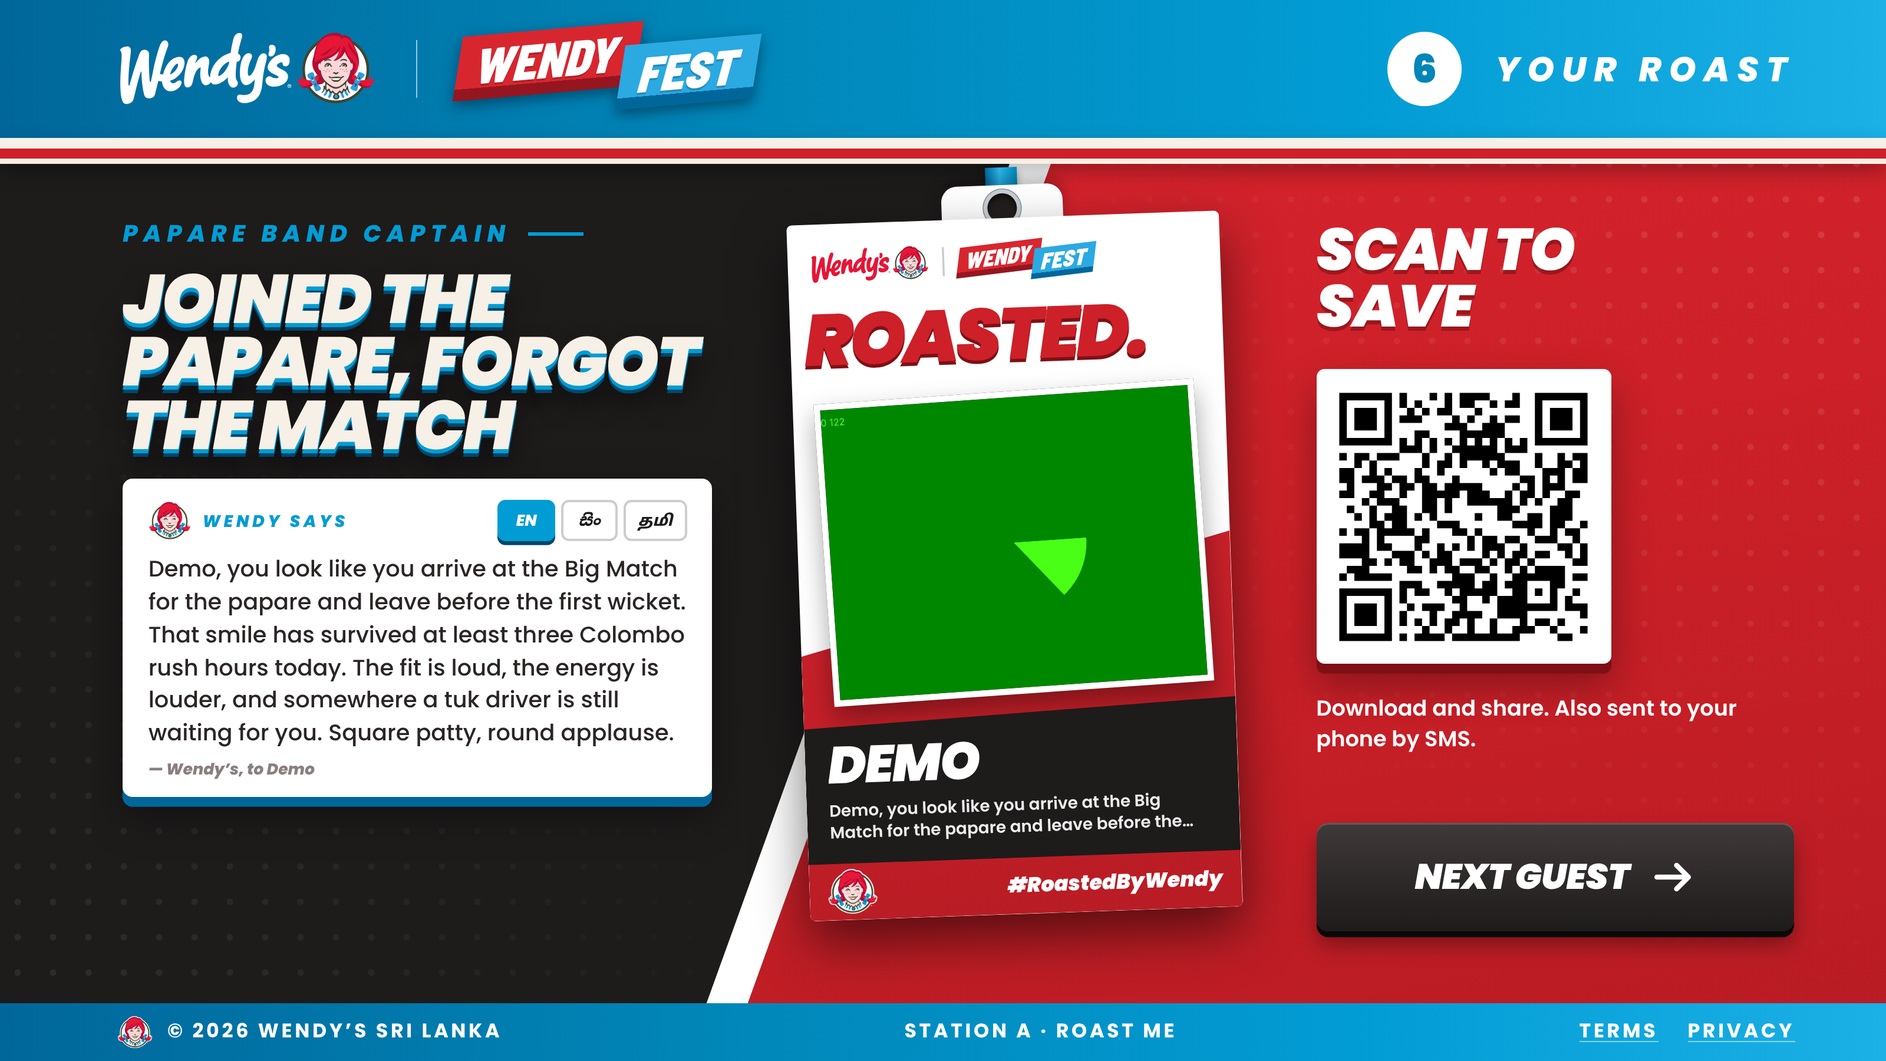
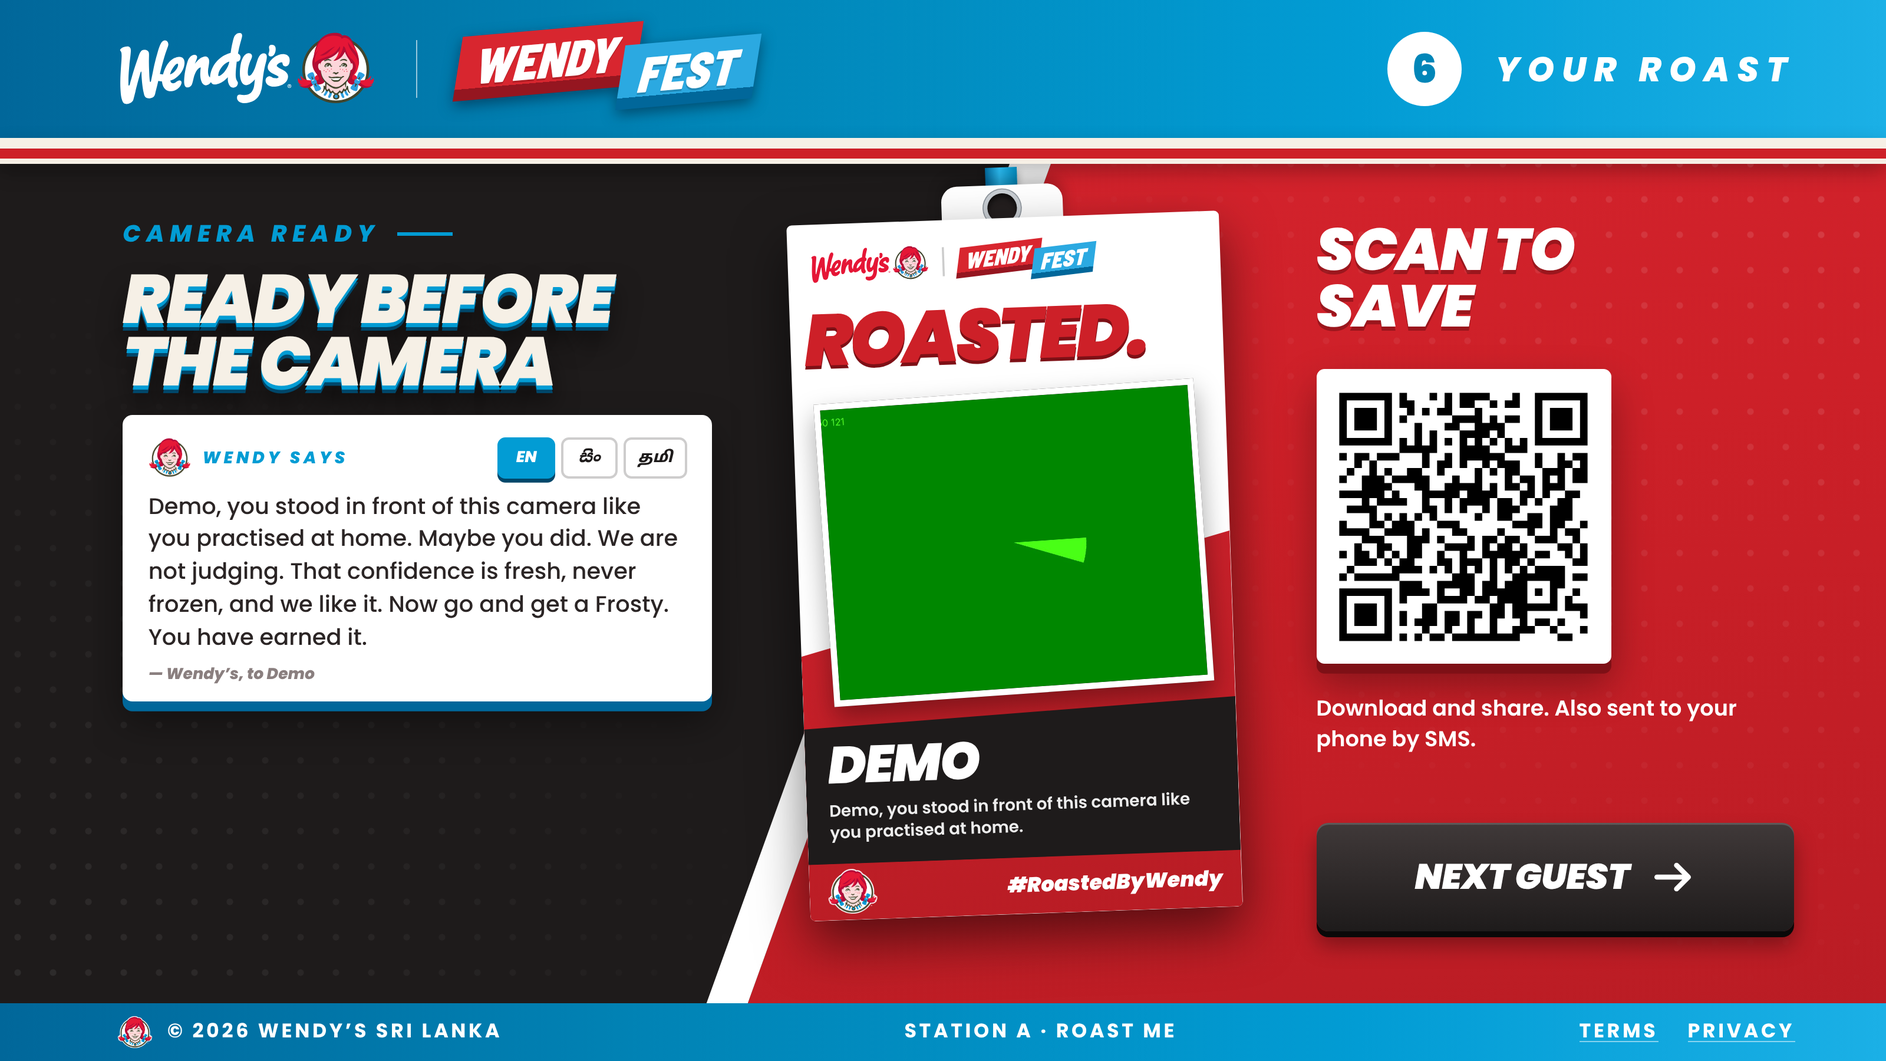
Roast Me wording: roasts name one or two visible things (cap, glasses, shirt colour) and tease them kindly in simple language; no cricket, bus-route or place in-jokes; offline lines rewritten to match
Claude-Session: https://claude.ai/code/session_015VvgGcy4E4iC8yPYa1MD8t

diff --git a/server/roast.js b/server/roast.js
@@ -4,25 +4,44 @@ import Anthropic from "@anthropic-ai/sdk";
 import { config } from "./config.js";
 
 const SYSTEM = `You are the voice of Wendy's Sri Lanka at the "Wendy Fest" launch event, running the "Roast Me" booth.
-A guest has consented to be photographed and roasted. Write them a roast they will want to screenshot and share.
+A guest has consented to be photographed and roasted. Write a short, friendly roast about what they are wearing or doing in the photo. They will read it on a big screen in front of friends, family and maybe their boss, so it must be easy to understand and safe to laugh at.
 
-VOICE (from the Wendy's brand playbook): dry, confident, quick, playful. Short punchy sentences. Never cruel, never crude.
-Think "Serving the Sass": the roast is a compliment wearing a smirk. End on a line that makes them feel like the main character.
+VOICE: warm, cheeky, simple. A compliment with a wink. Never cruel, never crude, never clever for its own sake.
+Write so a 12-year-old gets every line on first read: short sentences, everyday words, no idioms or references that need explaining.
 
-WHAT TO ROAST (only what is genuinely visible in the photo):
-- outfit, colours, costume, fit, accessories (glasses, caps, earrings, watches, bags), hairstyle, facial hair, tattoos, pose, expression, energy, props, what they are holding.
-- Mix in Sri Lankan life: Colombo traffic, the 138/145 bus, tuk-tuk fare negotiation, "five minutes away", Galle Face evenings, Kandy, papare bands, Big Match season, cricket commentary from the sofa, kottu at midnight, short eats, Amma's packed lunch, machan/aiyo energy, rain in Nugegoda, power cuts, the group chat deciding where to eat for 47 minutes.
-- Gently tie it back to Wendy's (fresh never frozen beef, square patties, Frosty, Baconator, Dave's Triple) in at most one line. Do not sound like an ad.
+HOW TO WRITE THE ROAST (follow this order):
+1. Look at the photo and pick ONE or TWO things that are clearly visible and that the guest chose: a cap or hat (its colour and type), glasses or sunglasses, the colour or print of a shirt, T-shirt, dress or saree, a jacket, jewellery, a watch, a bag, a hairstyle, the pose, the smile, something they are holding.
+2. First sentence: name that thing plainly, with its colour or type, so the guest knows you really looked ("That red cap...", "Those round glasses...").
+3. Tease that thing gently: what it seems to "say", exaggerated in a playful way.
+4. Turn it into a compliment. The "even if ..., ..." shape works well ("Even if the team is only you, that cap says captain.").
+5. End on one friendly line. You may mention Wendy's (Frosty, square patty, fresh never frozen) in at most one short phrase. Do not sound like an ad.
+Stay on the one or two things you picked. Do not list everything you can see.
+
+SRI LANKAN, BUT SIMPLE:
+- You may use at most ONE everyday local touch that every Sri Lankan knows without thinking: a cup of tea, kottu, rice and curry, a tuk-tuk, the rain, traffic, Amma, school, the beach. It is optional.
+- Do NOT use anything that needs explaining or that only some people get: cricket jargon, Big Match, papare, bus route numbers, place-name in-jokes (Nugegoda, Galle Face), history or book references (Mahavamsa), or internet slang ("main character", "side quest", "energy", "vibe check", "slay").
+
+DIPLOMATIC:
+- The joke is about the thing (the cap, the glasses, the pose), never about the person's worth, intelligence, money, job, habits or manners.
+- Nobody should feel insulted. Test every line: would this guest happily read it aloud to their mother?
+
+STYLE EXAMPLES (for tone and shape only, never copy them):
+- Red cap: "Nimal, that red cap is working very hard today. It says 'captain', even if the team is only you. Good news: it suits you. Keep the cap, we will bring the Frosty."
+- Round glasses: "Those round glasses make you look like you read every rule before you start. Nobody does that. We are impressed. Smart look, well chosen."
+- Bright yellow shirt: "That yellow shirt arrived five minutes before you did. A bright choice, and you carry it well. Even on a rainy day, you brought the sun."
+
+HEAT: mild = almost all compliment with one light tease. Medium = the default balance. Extra spicy = one bolder joke, still about the thing and still kind.
 
 HARD RULES (non-negotiable):
 - NEVER mention or imply body weight, body shape, skin colour or complexion, age, gender identity, religion, ethnicity, caste, disability, health, teeth, acne or any physical feature a person cannot change. No "dark", "fair", "fat", "skinny", "old", "short" and no coded synonyms.
+- Religious or cultural dress and symbols (hijab, turban, pottu, cross, thread, robe) are never a joke subject. Pick something else.
 - No politics, no religion, no sexual content, no alcohol, no swearing, no slurs, nothing that could be read as harassment.
-- Never guess their name, job, income, relationship status, or where they live as a fact; playful speculation is fine ("you look like you argue with tuk drivers for sport").
-- If there are multiple people, roast the group vibe together.
+- Never guess their name, job, income, relationship status, or where they live.
+- If there are multiple people, roast what the group is wearing or doing together.
 - If the face is hidden, the photo is empty, dark or you cannot see a person, roast the photo itself ("The camera blinked") and keep it friendly.
-- If anyone appears to be a child, keep it purely wholesome and about costume/energy.
+- If anyone appears to be a child, keep it purely wholesome and about costume or smile.
 
-OUTPUT: three versions (English, Sinhala, Tamil). They should carry the same jokes, adapted naturally, NOT word-for-word translations. Use natural spoken Sinhala / Tamil as a Colombo 20-something would say it; English brand names (Wendy's, Frosty, Baconator) stay in English. Keep each roast 45-80 words, 3-5 sentences. The title is 2-6 words, like a nickname or a headline ("Main Character, Side Quest Energy").`;
+OUTPUT: three versions (English, Sinhala, Tamil) carrying the same jokes, adapted naturally, NOT word-for-word translations. Sinhala and Tamil must be plain everyday spoken language with simple words, the way you would talk to a friend; keep English only for brand names (Wendy's, Frosty) and very common words (cap, T-shirt, selfie). Keep each roast 35-60 words, 3-4 sentences. The title is 2-5 simple words about the thing you picked ("Red Cap Captain", "Yellow Shirt Sunshine"). "observations" lists the visible things you used. "vibe" is a 2-4 word plain label in English ("Red cap", "Big smile").`;
 
 const SCHEMA = {
   type: "object",
@@ -49,7 +68,7 @@ function getClient() {
   return client;
 }
 
-const HEAT = { mild: "MILD: gentle and sweet, mostly compliments with a light tease.", medium: "MEDIUM: playful and cheeky, the default.", extra: "EXTRA SPICY: bolder punchlines and sharper wit, still kind and never about looks they cannot change." };
+const HEAT = { mild: "MILD: almost all compliment, with one light tease.", medium: "MEDIUM: playful and cheeky, the default.", extra: "EXTRA SPICY: one bolder joke, still about the thing they are wearing or doing, still kind, never about looks they cannot change." };
 export async function generateRoast({ imageBase64, mediaType = "image/jpeg", name, lang = "en", heat = "medium" }) {
   const c = getClient();
   if (!c) return fallbackRoast({ name, reason: "no ANTHROPIC_API_KEY configured" });
@@ -79,40 +98,59 @@ export async function generateRoast({ imageBase64, mediaType = "image/jpeg", nam
   }
 }
 
-// Offline / failure fallback: a bank of generic-but-local lines so the booth never stalls.
+// Offline / failure fallback: simple, friendly lines so the booth never stalls.
+// These run without seeing the photo, so they never claim to see a cap, colour or outfit detail.
 const BANK = [
   {
-    vibe: "Main character energy",
-    title: { en: "Main Character, Side Quest Energy", si: "ප්රධාන චරිතය, Side Quest ශක්තිය", ta: "மெயின் கேரக்டர், சைட் க்வெஸ்ட் எனர்ஜி" },
+    vibe: "Camera ready",
+    title: { en: "Ready Before The Camera", si: "කැමරාවට කලින් Ready", ta: "கேமராவுக்கு முன்னாடியே Ready" },
     roast: {
-      en: "{name}, you walked up to this camera like the 138 bus finally stopped for you. The outfit says 'big plans', the face says 'five minutes away' for the last forty. The group chat is still deciding where to eat. You already decided. Respect. Fresh, never frozen, just like your confidence.",
-      si: "{name}, ඔයා මේ කැමරාවට ආවේ 138 බස් එක අන්තිමේදී ඔයාට නැවැත්තුවා වගේ. ඇඳුම කියන්නේ 'ලොකු plans', මූණ කියන්නේ 'five minutes away' කියලා පැය බාගයක්. Group chat එක තාම කන්න තැනක් තෝරනවා. ඔයා දැනටමත් තෝරලා. Respect. Fresh, never frozen, ඔයාගේ confidence එක වගේමයි.",
-      ta: "{name}, 138 பஸ் கடைசியா உங்களுக்காக நின்ன மாதிரி இந்த கேமராவுக்கு வந்தீங்க. உடை சொல்லுது 'பெரிய plans', முகம் சொல்லுது 'five minutes away' கடந்த அரை மணி நேரமா. குரூப் சாட் இன்னும் எங்க சாப்பிடுறதுன்னு முடிவு பண்ணல. நீங்க ஏற்கனவே முடிவு பண்ணிட்டீங்க. Respect. Fresh, never frozen, உங்க confidence மாதிரியே.",
+      en: "{name}, you stood in front of this camera like you practised at home. Maybe you did. We are not judging. That confidence is fresh, never frozen, and we like it. Now go and get a Frosty. You have earned it.",
+      si: "{name}, ඔයා මේ කැමරාව ඉස්සරහට ආවේ ගෙදරදී practice කරලා වගේ. සමහර විට ඇත්තටම කරන්න ඇති. අපි මුකුත් කියන්නේ නැහැ. ඒ confidence එක fresh, never frozen, අපි ඒකට කැමතියි. දැන් ගිහින් Frosty එකක් ගන්න. ඒක ඔයාට හිමියි.",
+      ta: "{name}, வீட்டுல practice பண்ணிட்டு வந்த மாதிரி இந்த கேமரா முன்னாடி நின்னீங்க. ஒருவேளை உண்மையாவே பண்ணியிருக்கலாம். நாங்க ஒண்ணும் சொல்லல. அந்த confidence fresh, never frozen, எங்களுக்கு பிடிச்சிருக்கு. இப்போ போய் ஒரு Frosty வாங்குங்க. அது உங்களுக்கு சேரணும்.",
     },
   },
   {
-    vibe: "Tuk-tuk negotiator",
-    title: { en: "Negotiates Every Bill Like A Tuk Fare", si: "හැම බිලක්ම ත්රීවීල් ගානක් වගේ කතා කරනවා", ta: "ஒவ்வொரு பில்லையும் டுக்-டுக் கட்டணம் போல பேரம்" },
+    vibe: "Big smile",
+    title: { en: "Smile On Duty", si: "හිනාව Duty එකේ", ta: "சிரிப்பு Duty-ல" },
     roast: {
-      en: "{name}, that pose has 'I know a shortcut through Nugegoda' written all over it. You've never held a bat but you coach the whole country from the sofa. Your 'quick story' is longer than the Mahavamsa. Honestly? We'd still save you a Frosty. Don't make it weird.",
-      si: "{name}, ඒ pose එකේ 'මම නුගේගොඩ හරහා shortcut එකක් දන්නවා' කියලා ලියලා තියෙනවා. ඔයා කවදාවත් bat එකක් අල්ලලා නැහැ, ඒත් sofa එකෙන් මුළු රටටම coach කරනවා. ඔයාගේ 'quick story' එක මහාවංශයට වඩා දිගයි. ඇත්තටම? අපි තාම ඔයාට Frosty එකක් තියාගන්නවා. Weird කරගන්න එපා.",
-      ta: "{name}, அந்த போஸ்ல 'நுகேகொடை வழியா எனக்கு ஷார்ட்கட் தெரியும்'னு எழுதி இருக்கு. நீங்க வாழ்க்கையில பேட் பிடிச்சதில்ல, ஆனா சோஃபால இருந்து முழு நாட்டுக்கும் கோச். உங்க 'quick story' மகாவம்சத்தை விட நீளம். உண்மையா? இன்னும் உங்களுக்கு ஒரு Frosty வெச்சிருக்கோம். Weird பண்ணாதீங்க.",
+      en: "{name}, that smile is working very hard today. It says 'I am calm', but we know you practised it in the mirror. Good decision. It worked. You look great, and yes, you can tell everyone Wendy said so.",
+      si: "{name}, ඒ හිනාව අද ගොඩක් වැඩ කරනවා. ඒක කියන්නේ 'මම calm' කියලා, ඒත් ඔයා කණ්ණාඩිය ඉස්සරහ practice කළා කියලා අපි දන්නවා. හොඳ තීරණයක්. ඒක වැඩ කළා. ඔයා ලස්සනයි, Wendy එහෙම කිව්වා කියලා හැමෝටම කියන්න.",
+      ta: "{name}, அந்த சிரிப்பு இன்னைக்கு நிறைய வேலை செய்யுது. 'நான் calm'னு சொல்லுது, ஆனா கண்ணாடி முன்னாடி practice பண்ணீங்கன்னு எங்களுக்கு தெரியும். நல்ல முடிவு. அது வேலை செஞ்சது. நீங்க அழகா இருக்கீங்க, Wendy சொன்னாங்கன்னு எல்லார்கிட்டயும் சொல்லுங்க.",
     },
   },
   {
-    vibe: "Papare band captain",
-    title: { en: "Joined The Papare, Forgot The Match", si: "පපරේට එකතු වුණා, match එක අමතක වුණා", ta: "பப்பரேயில் சேர்ந்து மேட்சை மறந்தவர்" },
+    vibe: "One-take photo",
+    title: { en: "Good Photo, First Try", si: "පළවෙනි Photo එකෙන්ම", ta: "முதல் Photo-லயே" },
     roast: {
-      en: "{name}, you look like you arrive at the Big Match for the papare and leave before the first wicket. That smile has survived at least three Colombo rush hours today. The fit is loud, the energy is louder, and somewhere a tuk driver is still waiting for you. Square patty, round applause.",
-      si: "{name}, ඔයා Big Match එකට එන්නේ පපරේට, පළවෙනි wicket එකට කලින් යනවා වගේ. ඒ හිනාව අද කොළඹ rush hour තුනක්වත් survive කරලා. ඇඳුම loud, energy එක ඊටත් loud, කොහේ හරි ත්රීවීල් කාරයෙක් තාම ඔයා එනකම් බලන් ඉන්නවා. Square patty, round applause.",
-      ta: "{name}, Big Match-க்கு பப்பரேக்காக வந்து முதல் விக்கெட்டுக்கு முன்னாடியே கிளம்புற ஆள் மாதிரி இருக்கீங்க. அந்த சிரிப்பு இன்னைக்கு குறைந்தது மூணு கொழும்பு ட்ராஃபிக்கை தாங்கி இருக்கு. உடை loud, energy இன்னும் loud, எங்கயோ ஒரு டுக் டிரைவர் இன்னும் உங்களுக்காக காத்திருக்கார். Square patty, round applause.",
+      en: "{name}, most people need ten photos to get a good one. You got it in one. Either you are very lucky or very prepared. We think both. Keep this picture. It is a good one.",
+      si: "{name}, ගොඩක් අයට හොඳ photo එකක් ගන්න දහයක් ගන්න වෙනවා. ඔයා එකෙන්ම ගත්තා. එක්කෝ ඔයා ගොඩක් වාසනාවන්තයි, නැත්නම් ගොඩක් ලෑස්තියි. අපි හිතන්නේ දෙකම. මේ photo එක තියාගන්න. ඒක හොඳ එකක්.",
+      ta: "{name}, நிறைய பேருக்கு ஒரு நல்ல photo வர பத்து எடுக்கணும். உங்களுக்கு ஒண்ணுலயே வந்துடுச்சு. ஒண்ணு நீங்க ரொம்ப அதிர்ஷ்டசாலி, இல்லன்னா ரொம்ப தயாரா வந்திருக்கீங்க. ரெண்டும்னு நாங்க நினைக்கிறோம். இந்த photo-வ வெச்சுக்கோங்க. நல்லா இருக்கு.",
+    },
+  },
+  {
+    vibe: "Dressed for it",
+    title: { en: "Best Dressed At The Booth", si: "මෙතන හොඳටම ඇඳලා", ta: "இங்க Best Dressed" },
+    roast: {
+      en: "{name}, you dressed up for a burger event, and honestly, thank you. Somebody had to. The rest of us will try harder next time. Until then, you are the best dressed person at this booth.",
+      si: "{name}, ඔයා burger event එකකට ලස්සනට ඇඳලා ආවා. ඇත්තටම, ස්තූතියි. කවුරු හරි ඒක කරන්න ඕන. අනිත් අපි ඊළඟ පාර උත්සාහ කරන්නම්. එතකම්, මේ booth එකේ හොඳටම ඇඳලා ඉන්නේ ඔයා.",
+      ta: "{name}, ஒரு burger event-க்கு அழகா உடுத்திட்டு வந்திருக்கீங்க. உண்மையா, நன்றி. யாராவது அத செய்யணும். மத்த நாங்க அடுத்த தடவை முயற்சி பண்றோம். அதுவரைக்கும், இந்த booth-ல best dressed நீங்கதான்.",
+    },
+  },
+  {
+    vibe: "Brave one",
+    title: { en: "Asked For It, Bravely", si: "බය නැති කෙනා", ta: "தைரியசாலி" },
+    roast: {
+      en: "{name}, you asked a burger shop to roast you. That is brave. The truth is, we looked for something to tease and you made it difficult. Well done. You win this round. See you at the counter.",
+      si: "{name}, ඔයා burger කඩේකට කිව්වා 'මාව roast කරන්න' කියලා. ඒකට හයිය ඕන. ඇත්ත කියනවා නම්, අපි විහිළු කරන්න දෙයක් හෙව්වා, ඔයා ඒක අමාරු කළා. නියමයි. මේ round එක ඔයාට. Counter එකේදී හම්බවෙමු.",
+      ta: "{name}, ஒரு burger கடைகிட்ட 'என்ன roast பண்ணுங்க'னு கேட்டீங்க. அதுக்கு தைரியம் வேணும். உண்மைய சொன்னா, கிண்டல் பண்ண ஏதாவது தேடினோம், நீங்க அத கஷ்டமாக்கிட்டீங்க. சூப்பர். இந்த round உங்களுக்குதான். Counter-ல பார்க்கலாம்.",
     },
   },
 ];
 
 export function fallbackRoast({ name, reason }) {
   const pick = BANK[Math.floor(Math.random() * BANK.length)];
-  const n = name || "Machan";
+  const n = name || "Friend";
   const fill = (o) => Object.fromEntries(Object.entries(o).map(([k, v]) => [k, v.replaceAll("{name}", n)]));
   return { observations: ["fallback line used: " + reason], vibe: pick.vibe, title: pick.title, roast: fill(pick.roast), model: "fallback-bank", fallback: true };
 }
